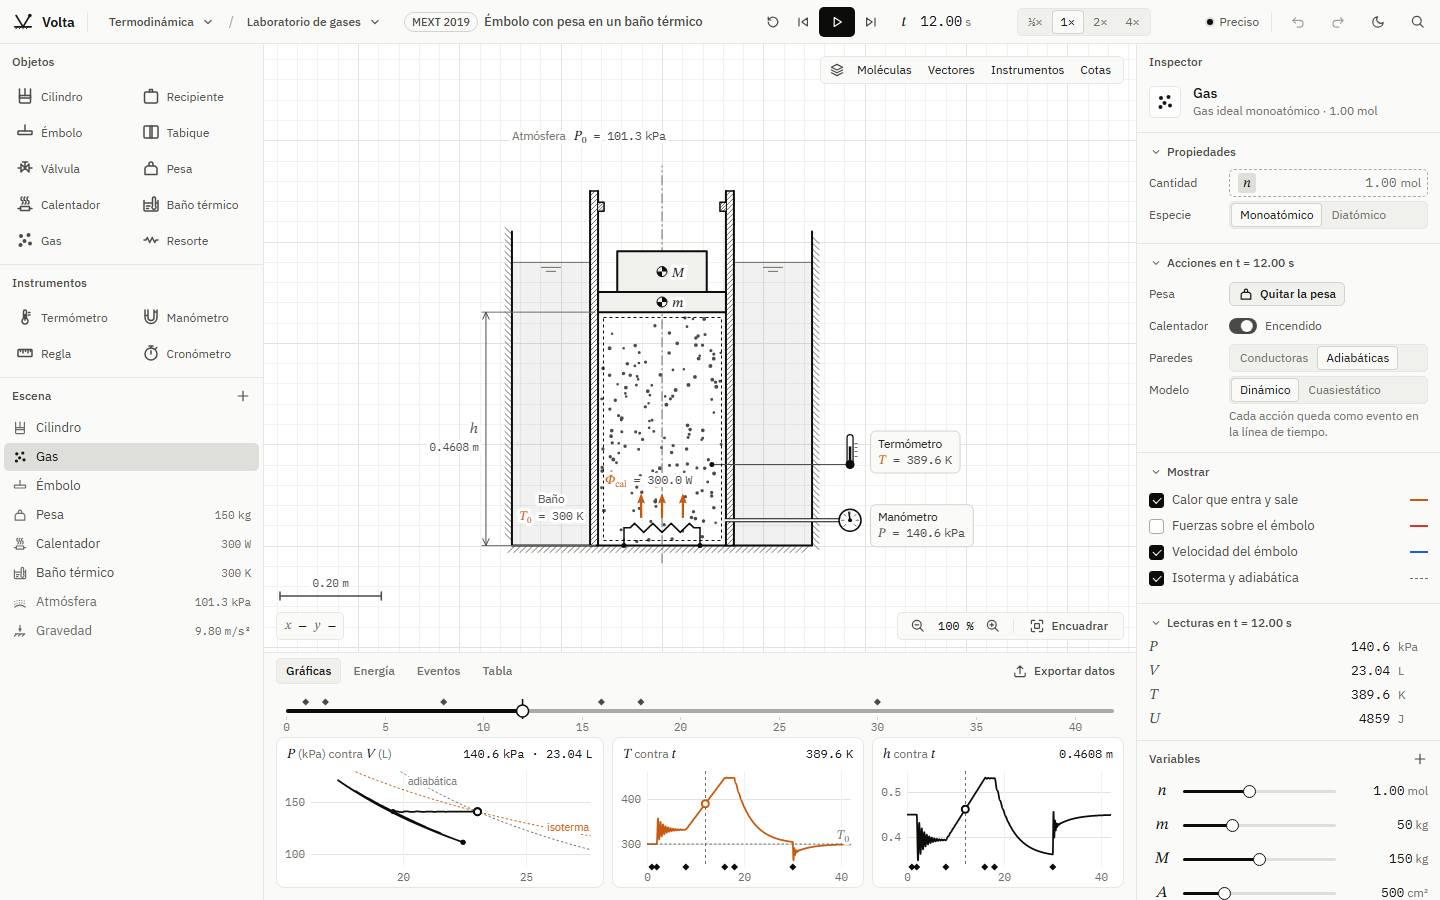
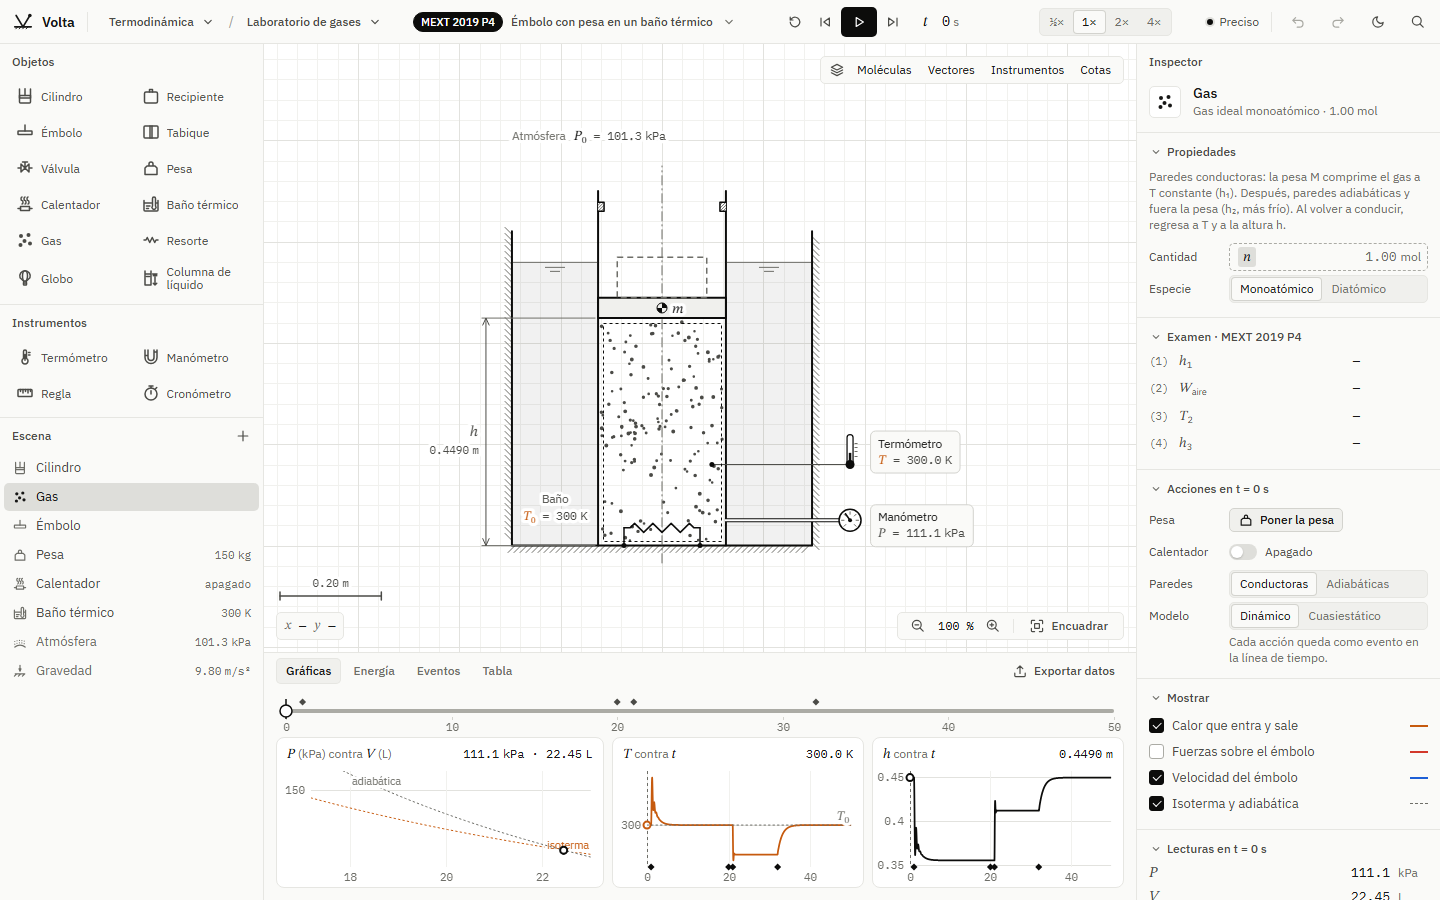
Navegación e Inicio: los nueve módulos disponibles
Termodinámica con sus cuatro espacios y Física moderna en los menús de las
migas e Inicio, con sus conteos reales; enlaces de la biblioteca; README,
CHANGELOG y capturas al día. La prueba de 24 discos ya no depende del
límite de reloj de la interfaz.

diff --git a/sistema/prototipos/inicio.html b/sistema/prototipos/inicio.html
@@ -112,24 +112,24 @@ import { avisar } from '../componentes/exportar.js';
   const MODULOS = [
     ['mecanica', 'Mecánica', 'Partículas y cuerpos sobre superficies, cuerdas, resortes, choques y equilibrio.', 2, 38, 'mecanica.html'],
     ['gravitacion', 'Gravitación', 'Órbitas, satélites, velocidad de escape y leyes de Kepler.', 1, 8, 'gravitacion.html'],
-    ['termodinamica', 'Termodinámica', 'Gases con émbolos y válvulas, ciclos, y el gas visto desde sus moléculas.', 1, 1, 'termodinamica.html'],
+    ['termodinamica', 'Termodinámica', 'Gases con émbolos y válvulas, ciclos en el diagrama P-V, el gas visto desde sus moléculas y calorimetría.', 4, 29, 'termodinamica.html'],
     ['electrostatica', 'Electrostática', 'Cargas, campo, potencial, Gauss, conductores, dieléctricos y capacitores.', 2, 18, 'electrostatica.html'],
     ['circuitos', 'Circuitos', 'Corriente continua, redes de capacitores y transitorios RC, RL y LC.', 1, 3, 'circuitos.html'],
     ['magnetismo', 'Magnetismo e inducción', 'Campos de corrientes, partículas en E y B, efecto Hall e inducción electromagnética.', 3, 13, 'magnetismo.html'],
     ['ondas', 'Ondas y sonido', 'Cuerdas, tubos, efecto Doppler, pulsaciones y acústica.', 2, 16, 'ondas.html'],
     ['optica', 'Óptica', 'Rayos, refracción, interferencia, películas delgadas y Michelson.', 3, 14, 'optica.html'],
-    ['moderna', 'Física moderna', 'Efecto fotoeléctrico y decaimientos nucleares.', null, null, null],
+    ['moderna', 'Física moderna', 'Efecto fotoeléctrico con medida de h, decaimientos, cadenas y retroceso nuclear.', 2, 4, 'moderna.html'],
   ];
   const ESCENAS = [
     { t: 'Salto hacia una pendiente', m: 'Mecánica', tipo: 'MEXT', ref: '2019 · P3', mini: 'proyectil', href: 'mecanica.html' },
     { t: 'Dos cargas iguales', m: 'Electrostática', tipo: 'MEXT', ref: '2020 · P2', mini: 'cargas', href: 'electrostatica.html' },
     { t: 'Émbolo con pesa', m: 'Termodinámica', tipo: 'MEXT', ref: '2019 · P4', mini: 'embolo', href: 'termodinamica.html' },
     { t: 'Péndulo con clavo', m: 'Mecánica', tipo: 'MEXT', ref: '2014 · P3', mini: 'pendulo', href: 'mecanica-laboratorio.html?escena=mext-2014-p3' },
-    { t: 'Tiro oblicuo', m: 'Mecánica', tipo: 'Tutorial', ref: 'Paso a paso', mini: 'tiro', href: null },
+    { t: 'Alcance de un tiro oblicuo', m: 'Mecánica', tipo: 'MEXT', ref: '2015 · 1-(1)', mini: 'tiro', href: 'mecanica-laboratorio.html?escena=mext-2015-1-1' },
     { t: 'Resorte y bloque', m: 'Mecánica', tipo: 'Ejemplo', ref: 'Oscilaciones', mini: 'resorte', href: 'mecanica-laboratorio.html?escena=resorte' },
     { t: 'Dipolo eléctrico', m: 'Electrostática', tipo: 'Tutorial', ref: 'Líneas de campo', mini: 'dipolo', href: 'electrostatica.html?escena=dipolo' },
     { t: 'Doble rendija de Young', m: 'Óptica', tipo: 'MEXT', ref: '2023 · P5', mini: 'young', href: 'optica-ondas.html?escena=mext-2023-5' },
-    { t: 'Ciclo rectangular', m: 'Termodinámica', tipo: 'MEXT', ref: '2018 · P4', mini: 'ciclo', href: null },
+    { t: 'Ciclo rectangular', m: 'Termodinámica', tipo: 'MEXT', ref: '2018 · P4', mini: 'ciclo', href: 'termodinamica-ciclos.html?escena=mext-2018-p4' },
     { t: 'Carga de un capacitor', m: 'Circuitos', tipo: 'Ejemplo', ref: 'Transitorio RC', mini: 'rc', href: 'circuitos.html' },
     { t: 'Ambulancia que pasa', m: 'Ondas y sonido', tipo: 'MEXT', ref: '2007 · P5', mini: 'doppler', href: 'ondas-doppler.html?escena=mext-2007-5' },
     { t: 'Mi rampa con fricción', m: 'Mecánica', tipo: 'Propio', ref: 'Editado hoy', mini: 'rampa', href: 'mecanica-laboratorio.html?escena=plano' },
@@ -238,7 +238,7 @@ import { avisar } from '../componentes/exportar.js';
   // «Continuar»: lo que de verdad se abrió en este equipo (el autoguardado de
   // cada pantalla lo registra). Al abrirla, la pantalla recupera su autoguardado.
   const NOMBRES = Object.fromEntries(MODULOS.map(([id, nombre]) => [id, nombre]));
-  const MINI = { mecanica: 'proyectil', gravitacion: 'tiro', termodinamica: 'embolo', electrostatica: 'cargas', circuitos: 'rc', ondas: 'doppler', optica: 'young', magnetismo: 'cargas' };
+  const MINI = { mecanica: 'proyectil', gravitacion: 'tiro', termodinamica: 'embolo', electrostatica: 'cargas', circuitos: 'rc', ondas: 'doppler', optica: 'young', magnetismo: 'cargas', moderna: 'young' };
   const PAGINA_DE_CLAVE = clave => /^[a-z-]+$/.test(clave) && clave !== 'inicio' ? `${clave === 'mecanica-laboratorio' || clave === 'laboratorio' ? 'mecanica-laboratorio' : clave}.html` : null;
   const hace = ms => {
     const min = Math.max(0, Math.round((Date.now() - ms) / 60000));
@@ -268,9 +268,9 @@ import { avisar } from '../componentes/exportar.js';
 
   // ---------- Abrir y nueva escena ----------
   // La escena viaja a su pantalla por sessionStorage ("volta.abrir").
-  const PANTALLAS = { mecanica: 'mecanica.html', electrostatica: 'electrostatica.html', termodinamica: 'termodinamica.html', gravitacion: 'gravitacion.html', circuitos: 'circuitos.html', ondas: 'ondas.html', optica: 'optica.html', magnetismo: 'magnetismo.html' };
+  const PANTALLAS = { mecanica: 'mecanica.html', electrostatica: 'electrostatica.html', termodinamica: 'termodinamica.html', gravitacion: 'gravitacion.html', circuitos: 'circuitos.html', ondas: 'ondas.html', optica: 'optica.html', magnetismo: 'magnetismo.html', moderna: 'moderna.html' };
   // Espacios con pantalla propia dentro de un módulo
-  const ESPACIOS = { 'mecanica:laboratorio': 'mecanica-laboratorio.html', 'electrostatica:conductores': 'electrostatica-conductores.html', 'ondas:doppler': 'ondas-doppler.html', 'optica:interferencia': 'optica-ondas.html', 'optica:peliculas': 'optica-peliculas.html', 'magnetismo:particulas': 'magnetismo-particulas.html', 'magnetismo:induccion': 'magnetismo-induccion.html' };
+  const ESPACIOS = { 'mecanica:laboratorio': 'mecanica-laboratorio.html', 'termodinamica:ciclos': 'termodinamica-ciclos.html', 'termodinamica:molecular': 'termodinamica-molecular.html', 'termodinamica:calor': 'termodinamica-calor.html', 'electrostatica:conductores': 'electrostatica-conductores.html', 'ondas:doppler': 'ondas-doppler.html', 'optica:interferencia': 'optica-ondas.html', 'optica:peliculas': 'optica-peliculas.html', 'magnetismo:particulas': 'magnetismo-particulas.html', 'magnetismo:induccion': 'magnetismo-induccion.html', 'moderna:nucleo': 'moderna-nucleo.html' };
   function abrir() {
     abrirEscena({}).then(e => {
       // Algunos módulos tienen varios espacios, cada uno con su pantalla

diff --git a/sistema/componentes/espacio.js b/sistema/componentes/espacio.js
@@ -79,12 +79,13 @@
   const MODULOS = [
     { nombre: 'Mecánica', icono: 'm-mecanica', espacios: [['mecanica.html', 'Cinemática y proyectiles', 'o-lanzador'], ['mecanica-laboratorio.html', 'Laboratorio', 'i-escena']] },
     { nombre: 'Gravitación', icono: 'm-gravitacion', espacios: [['gravitacion.html', 'Órbitas', 'o-satelite']] },
-    { nombre: 'Termodinámica', icono: 'm-termodinamica', espacios: [['termodinamica.html', 'Laboratorio de gases', 'o-cilindro']] },
+    { nombre: 'Termodinámica', icono: 'm-termodinamica', espacios: [['termodinamica.html', 'Laboratorio de gases', 'o-cilindro'], ['termodinamica-ciclos.html', 'Ciclos y diagrama P-V', 'o-embolo'], ['termodinamica-molecular.html', 'Gas molecular', 'o-caja-molecular'], ['termodinamica-calor.html', 'Calor y calorimetría', 'o-calorimetro']] },
     { nombre: 'Electrostática', icono: 'm-electrostatica', espacios: [['electrostatica.html', 'Cargas y campos', 'o-carga-positiva'], ['electrostatica-conductores.html', 'Conductores y dieléctricos', 'o-capacitor-placas']] },
     { nombre: 'Circuitos', icono: 'm-circuitos', espacios: [['circuitos.html', 'Transitorios', 'o-capacitor']] },
     { nombre: 'Magnetismo e inducción', icono: 'm-magnetismo', espacios: [['magnetismo.html', 'Campos magnéticos', 'o-hilo-corriente'], ['magnetismo-particulas.html', 'Partículas en E y B', 'o-particula-cargada'], ['magnetismo-induccion.html', 'Inducción', 'o-barra-conductora']] },
     { nombre: 'Ondas y sonido', icono: 'm-ondas', espacios: [['ondas.html', 'Medio 1D', 'o-cuerda'], ['ondas-doppler.html', 'Doppler y acústica', 'o-fuente-sonora']] },
     { nombre: 'Óptica', icono: 'm-optica', espacios: [['optica.html', 'Óptica geométrica', 'o-lente-ideal'], ['optica-ondas.html', 'Interferencia y difracción', 'o-rendija-doble'], ['optica-peliculas.html', 'Películas e interferómetros', 'o-michelson']] },
+    { nombre: 'Física moderna', icono: 'm-moderna', espacios: [['moderna.html', 'Efecto fotoeléctrico', 'o-placa-metal'], ['moderna-nucleo.html', 'Núcleo', 'o-nucleo']] },
   ];
   function iniciarNavegacion() {
     const migas = document.querySelector('.migas');

diff --git a/pruebas/mecanica.test.js b/pruebas/mecanica.test.js
@@ -191,8 +191,10 @@ describe('choques robustos y contactos entre discos', () => {
   const pared = (id, a, b, e = 1) => ({ id, tipo: 'segmento', a, b, e });
   // Caja de 6 m × 4 m; los segmentos dejan el sólido por fuera
   const caja = e => [pared('s', [-3, -2], [3, -2], e), pared('n', [3, 2], [-3, 2], e), pared('o', [-3, 2], [-3, -2], e), pared('e', [3, -2], [3, 2], e)];
+  // tiempoMax: el límite de reloj protege la interfaz, no la física; con la
+  // suite entera en paralelo (o en la compilación de Windows) 5 s no bastaban
   const gas = (n, v, g = [0, 0]) => ({
-    duracion: 5, g, particulas: Array.from({ length: n }, (_, i) => ({
+    duracion: 5, g, tiempoMax: 60000, particulas: Array.from({ length: n }, (_, i) => ({
       id: 'p' + i, m: 1 + (i % 3), radio: 0.1,
       p: [-2.5 + (i % 6), -1.5 + Math.floor(i / 6) * 0.75], v: [v * Math.cos(i * 1.7), v * Math.sin(i * 2.3)],
     })),

diff --git a/README.md b/README.md
@@ -48,13 +48,13 @@ Principios del proyecto:
 |---|---|---|
 | Mecánica | Utilizable | Proyectiles y Laboratorio (caja de arena): superficies fijas o llevadas por un cuerpo, cuerdas, poleas, resortes, varillas, clavos, prensa hidráulica, fricción, choques entre discos y movimiento impuesto (ascensor, gráficas v–t); contactos como problema de complementariedad y energía disipada contabilizada; 38 escenas MEXT |
 | Electrostática | Utilizable | Cargas, hilos, anillos, láminas y esferas; campo, potencial, Gauss y cargas en movimiento; capacitores con dieléctricos, conductores y batería conectada o no; 18 escenas MEXT |
-| Termodinámica | Utilizable | Gas en cilindro con émbolo, calor, trabajo, diagrama P-V |
+| Termodinámica | Utilizable | Laboratorio de gases (cilindros, recipientes con válvulas, globos, burbujas), ciclos en el diagrama P-V con Q, W y ΔU por tramo, gas molecular de discos con Maxwell–Boltzmann, y calor y calorimetría; 29 escenas MEXT |
 | Gravitación | Utilizable | Órbitas, escape, leyes de Kepler, órbita geoestacionaria; 8 escenas MEXT |
 | Circuitos | Utilizable | Corriente continua, redes de capacitores, transitorios RC, RL y LC |
 | Magnetismo e inducción | Utilizable | Campos de hilos, espiras, solenoides e imanes; partículas en E y B con Boris (selector, espectrómetro, ciclotrón, Hall); inducción acoplada (rieles, espiras, generador) con balance de energía; 13 escenas MEXT |
 | Ondas y sonido | Utilizable | Cuerdas y tubos (reflexión, uniones, modos, resonancia) y Doppler con audio; la cubeta 2D, en preparación |
 | Óptica | Utilizable | Trazado de rayos (Snell, Fresnel, reflexión total, prismas con dispersión, lentes y espejos), interferencia y difracción por suma de Huygens, películas delgadas, anillos de Newton y Michelson |
-| Física moderna | Planeado | Efecto fotoeléctrico, núcleo |
+| Física moderna | Utilizable | Efecto fotoeléctrico con curva I–V y medida de h; núcleo con cadenas en la carta N–Z, decaimiento estocástico y retroceso; 4 escenas MEXT |
 
 El plan completo, con dependencias y orden de implementación, está en
 [PLAN.md](PLAN.md).
@@ -86,6 +86,10 @@ El plan completo, con dependencias y orden de implementación, está en
 | Películas e interferómetros | Magnetismo: inducción |
 |---|---|
 | ![Michelson](docs/diseno/capturas/f13_peliculas.png) | ![Inducción](docs/diseno/capturas/f14_magnetismo.png) |
+
+| Termodinámica: ciclos | Física moderna: núcleo |
+|---|---|
+| ![Ciclos](docs/diseno/capturas/f15_ciclos.png) | ![Núcleo](docs/diseno/capturas/f16_nucleo.png) |
 
 ## Instalación
 

diff --git a/CHANGELOG.md b/CHANGELOG.md
@@ -27,6 +27,23 @@ el proyecto usa [versionado semántico](https://semver.org/lang/es/).
   «Conductores y dieléctricos»: capacitores de placas, esféricos y
   coaxiales con dieléctricos y conductores, batería conectada o no, y las
   8 escenas MEXT de conductores y capacitores. 66 pruebas nuevas.
+- Termodinámica: menú de escenas en el «Laboratorio de gases» (cilindro
+  inclinado o que gira, recipientes con válvulas y mezcla, globos, burbujas)
+  y tres espacios nuevos: «Ciclos y diagrama P-V» (el lienzo es el propio
+  diagrama; dibujar ciclos con clics; Q, W y ΔU por tramo y rendimiento),
+  «Gas molecular» (discos con choques por eventos; presión por impulso en
+  las paredes, Maxwell–Boltzmann, efusión de Graham) y «Calor y
+  calorimetría». Motores nuevos de ciclos, gas molecular, recipientes y
+  calor; 29 de los 30 problemas MEXT del tema (2025 T7 solo tiene el tema
+  en el banco). 127 pruebas nuevas.
+- Módulo Física moderna con dos espacios: «Efecto fotoeléctrico» (fototubo
+  con lámparas de λ o f, placa de metal, colector y fuente; curva I–V,
+  K_max contra f y medida de h por la pendiente de V₀) y «Núcleo» (carta
+  N–Z con cadenas y valle de estabilidad, muestra que decae con T½ medido,
+  decaimiento puntual con retroceso). Constantes CODATA, masas AME2020 y
+  periodos NUBASE; 44 pruebas y las 4 escenas MEXT del tema.
+- Con los nueve módulos disponibles, Inicio ya no tiene ninguno «En
+  preparación».
 
 - Laboratorio: panel de variables, como en los demás módulos. Una variable
   es un deslizador que fija a la vez varias propiedades (la rapidez de dos
